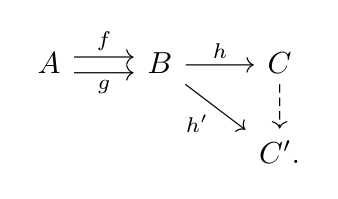
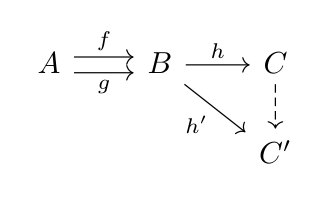
functoriality: 清掉三张交换图节点里的原文句点（exact-triangle-bimodules / barr-beck / fukaya-bifunctor）并重渲染

diff --git a/datasets/functoriality/md/concepts/fukaya-bifunctor.md b/datasets/functoriality/md/concepts/fukaya-bifunctor.md
@@ -39,7 +39,7 @@ $\CF^*(L_{ij},L_{jk},L_{ik}^T)$
 \begin{tikzcd}[column sep=1.3em,row sep=large]
 \begin{gathered}(\Fuk(M_0^-\times M_1),\Fuk(M_1^-\times M_2),\\\Fuk(M_2^-\times M_3))\end{gathered}\arrow[r]\arrow[d]
 &\bigl(\Fuk(M_0^-\times M_1),\Fuk(M_1^-\times M_3)\bigr)\arrow[d]\\
-\bigl(\Fuk(M_0^-\times M_2),\Fuk(M_2^-\times M_3)\bigr)\arrow[r]&\Fuk(M_0^-\times M_3).
+\bigl(\Fuk(M_0^-\times M_2),\Fuk(M_2^-\times M_3)\bigr)\arrow[r]&\Fuk(M_0^-\times M_3)
 \end{tikzcd}
 ```
 

diff --git a/datasets/functoriality/md/concepts/exact-triangle-bimodules.md b/datasets/functoriality/md/concepts/exact-triangle-bimodules.md
@@ -36,7 +36,7 @@ $\CF^*(L_0,\tau_C L_1)$
 ```tikz
 \begin{tikzcd}[column sep=0.8em,row sep=1.2em]
 \operatorname{CF}^*(L_0,C)\otimes\operatorname{CF}^*(L_1,C) \arrow[rr] && \operatorname{CF}^*(L_0,L_1) \arrow[dl] \\
-& \operatorname{CF}^*(L_0,\tau_C L_1). \arrow[ul] &
+& \operatorname{CF}^*(L_0,\tau_C L_1) \arrow[ul] &
 \end{tikzcd}
 ```
 

diff --git a/datasets/functoriality/md/concepts/barr-beck.md b/datasets/functoriality/md/concepts/barr-beck.md
@@ -38,7 +38,7 @@ $\Mod T$
 ```tikz
 \begin{tikzcd}[column sep=2em,row sep=1.5em]
 A \arrow[r,shift left=.6ex,"f"] \arrow[r,shift right=.6ex,"g"'] & B \arrow[r,"h"] \arrow[dr,"h'"'] & C \arrow[d,dashed] \\
-&& C'.
+&& C'
 \end{tikzcd}
 ```
 
